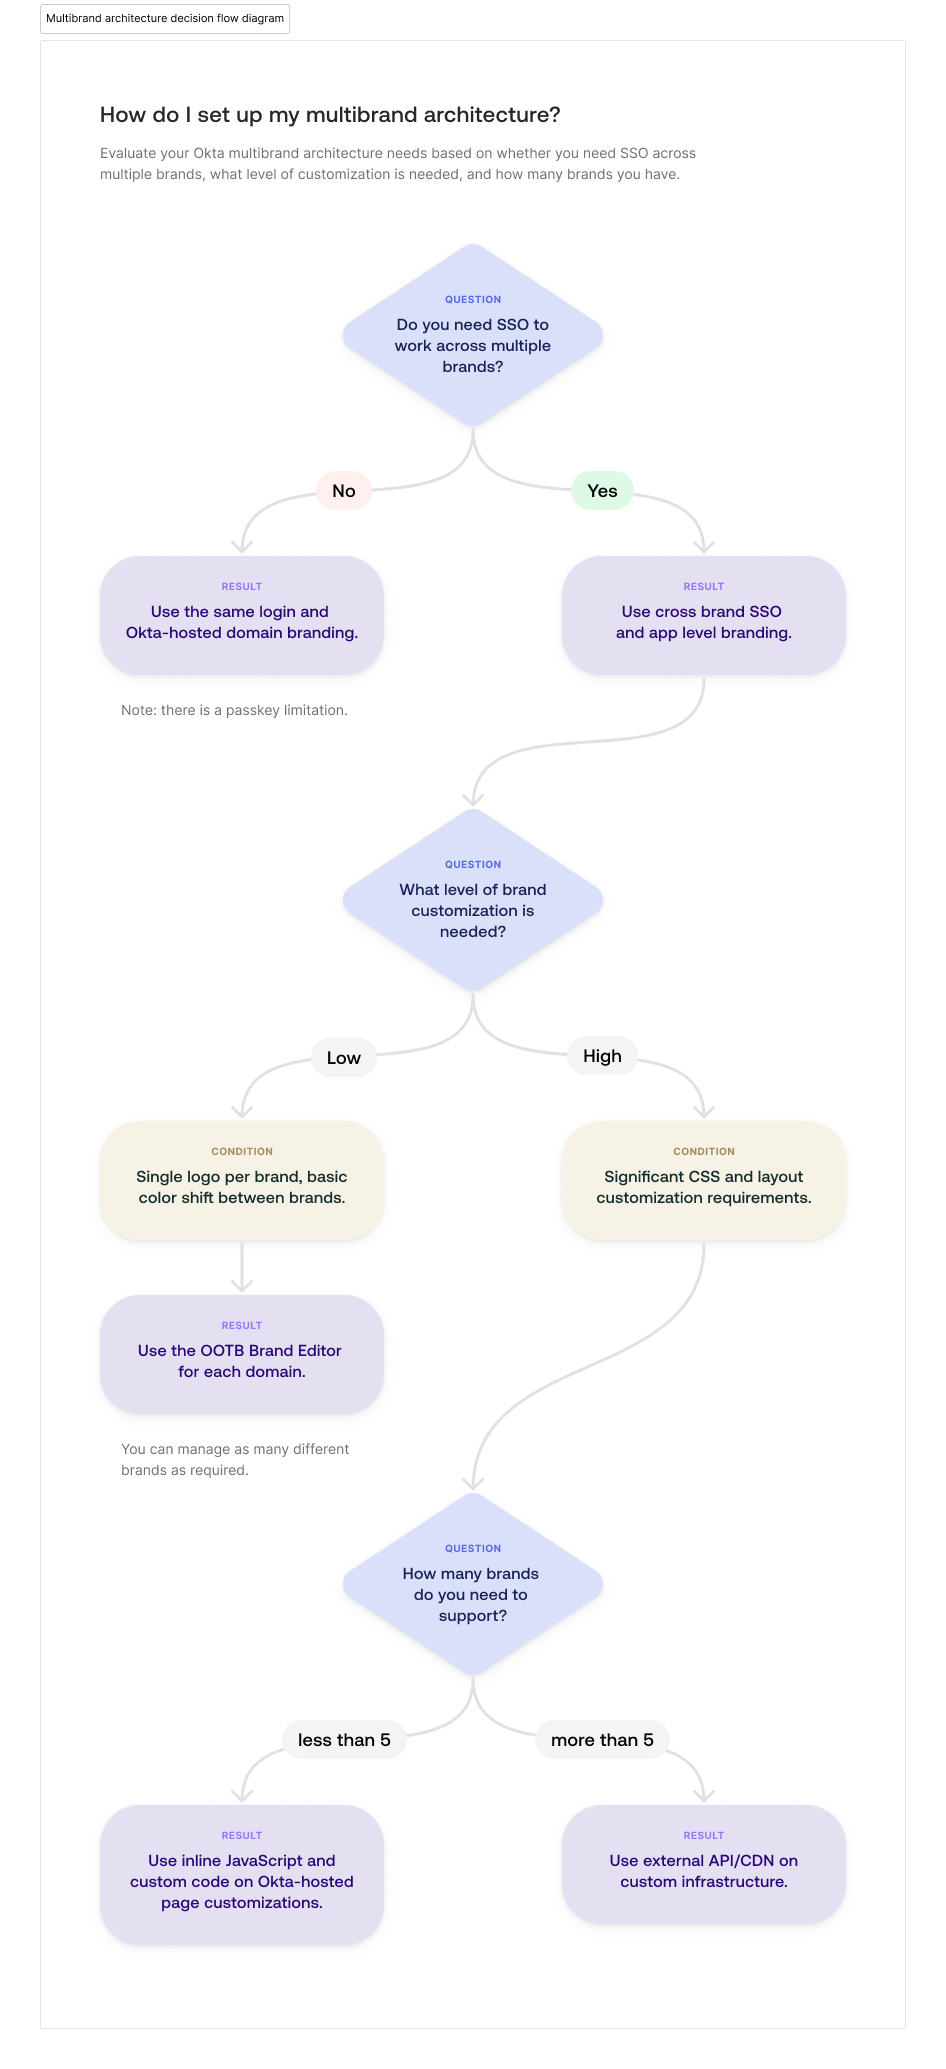
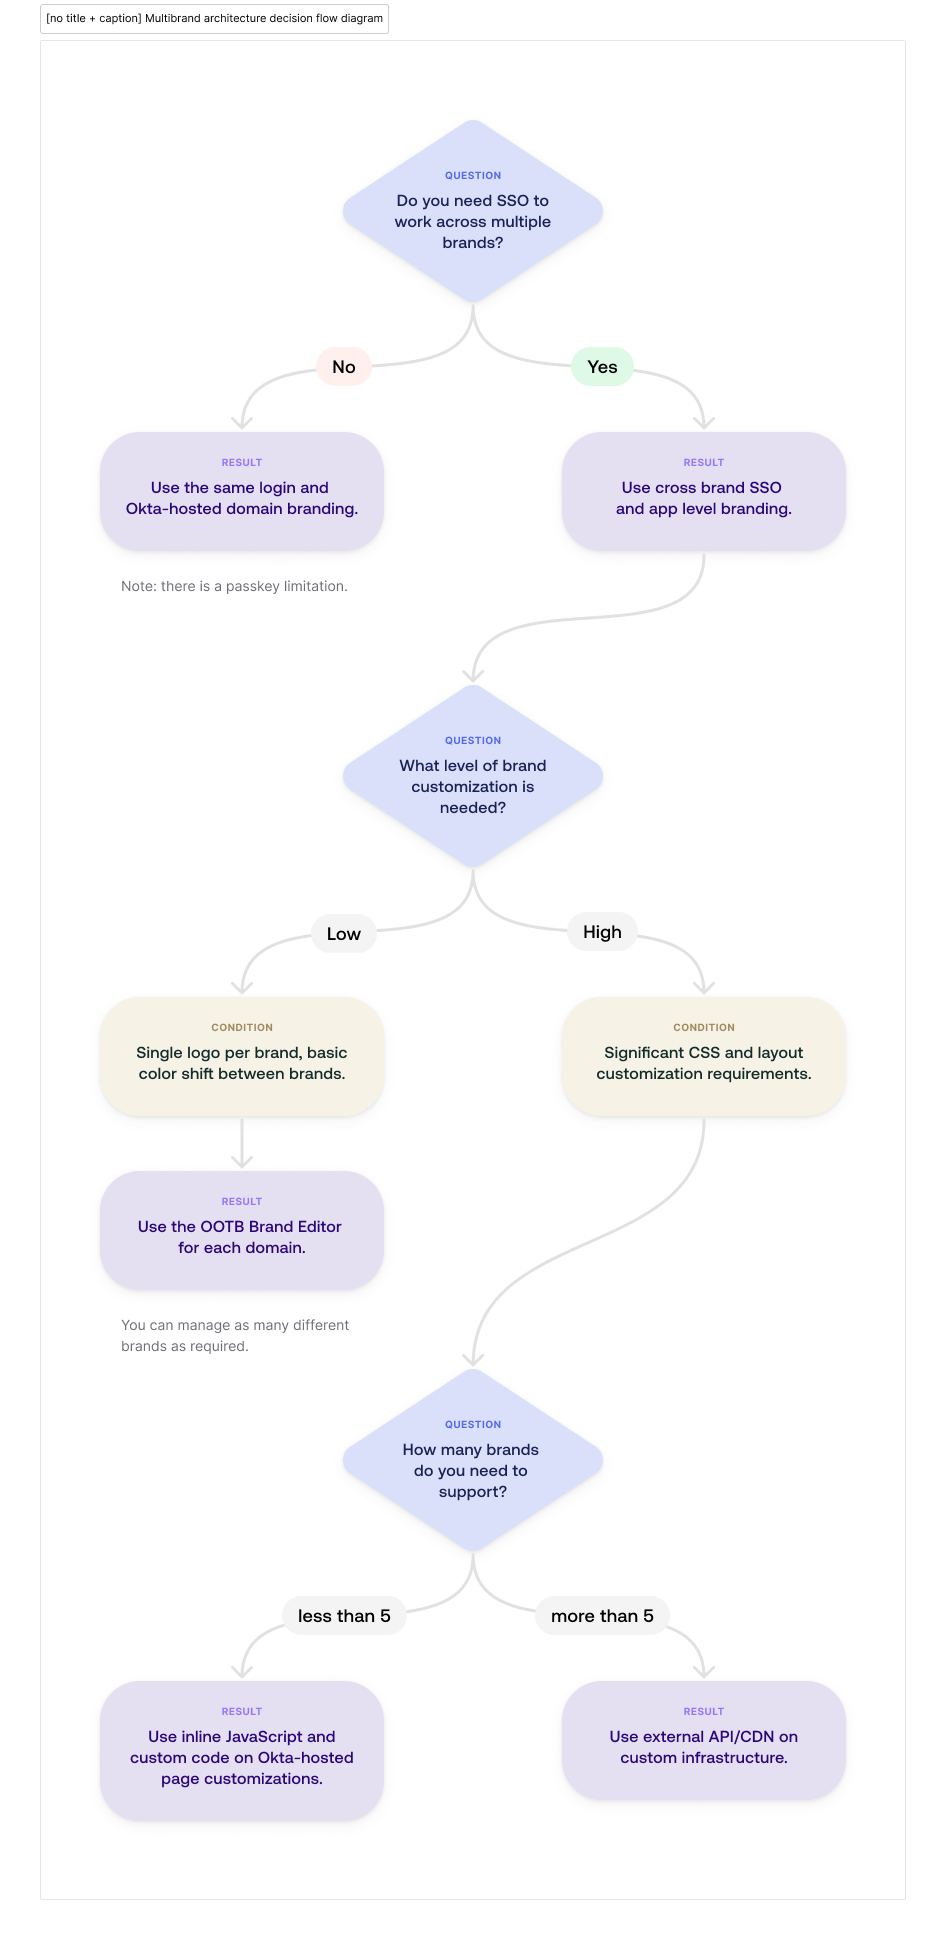
updates

diff --git a/packages/@okta/vuepress-site/docs/concepts/multibrand-architecture/index.md b/packages/@okta/vuepress-site/docs/concepts/multibrand-architecture/index.md
@@ -20,7 +20,7 @@ The right multibrand architecture requires that you answer the following questio
 
 The following diagram shows the decision flow that you should follow when setting up your architectural approach:
 
-<div class="three-quarter">
+<div class="half">
 
 ![A decision flow diagram to help you set up your multibrand architecture](/img/concepts/multibrand-architecture.png)
 
@@ -28,14 +28,6 @@ The following diagram shows the decision flow that you should follow when settin
     Source image: https://www.figma.com/design/z1MlMg2HBdJtgtvW9cxjZf/Dev-Docs-Diagrams?node-id=6-8&t=ViaDcJGs6y3TaPuE-0
   -->
 </div>
-
-## Context controls
-
-Okta provides many controls that you can use to customize the branding of the Sign-In Widget.
-
-
-
-
 
 ## SSO requirements across brands
 
@@ -51,8 +43,9 @@ This approach simplifies management by centralizing user identity and policy enf
 
 End-users have a “same login experience", and can have the same username, password, email, phone, and even one-time passwords (OTPs).
 
-**Note:** If you plan to use passkeys, this approach limits you to five associated domains.
+See [About Okta domain customization](/docs/guides/custom-url-domain/main/#about-okta-domain-customization).
 
+**Note:** If you plan to use passkeys, this approach limits you to five associated domains. See [Passkeys and custom domains](/docs/guides/custom-passkeys/main/).
 
 ### SSO required
 
@@ -83,13 +76,48 @@ app:{
     name: "oidc_client"
 ```
 
-
-
-
+Use the pipe character (`|`) as a delimiter to parse the `label` string. This retrieves the second value, such as "brand_xyz", which you can use to select the appropriate look and feel.
 
 ### High complexity
 
+High complexity applies when your brands are visually diverse and need extensive code customization. The following are examples of complex branding:
 
+* Significant custom CSS
+* Unique layout requirements
+* Complex responsive design rules
+* Highly customized user flows that go beyond basic widget configuration
+
+## Fewer than five brands
+
+
+
+
+
+## Common multibrand use cases
+
+This section details common branding requirements and the recommended controls for implementing them within a multi-brand architecture. These patterns leverage the controls discussed in [Context controls](#context-controls).
+
+### Brand families (product lines)
+
+For enterprise-scale deployments, you may group multiple apps (for example, a product line or SKU) into a distinct brand family. This grouping often requires a consistent look and feel for all apps within that family.
+
+Since consuming users or customers could have access across different product lines, a domain-centric approach is often not sufficient. It could break single sign-on (SSO).
+
+Consider the following controls:
+
+* **App label:** Parsing a custom string within the label. Optimal for dynamic and managed branding. You can easily manage the label within Okta. You can also carry branding metadata parsed by the client app.
+
+* **App ID:** Used with an external lookup service. Supports the greatest variation. Useful when a brand requires significant customization or when a single application is used by multiple brands. The ID serves as a key for a service that retrieves the specific brand assets.
+
+See [Okta context (responsible party)](#okta-context-responsible-party).
+
+### Market-aware branding (regional or regulatory requirements)
+
+Some brand requirements extend beyond standard application and domain boundaries, often intersecting with localization, data residency, or regional regulatory frameworks.
+
+In these scenarios, you cannot solely rely on the user's browser language or basic geolocation. For example, a specific regulatory framework might mandate the use of unique Regional Authenticators/Identity Providers (IdPs) that are applicable only to a specific market, such as APAC, but not to the global audience.
+
+Consider the following controls:
 
 
 
@@ -108,7 +136,7 @@ The following table lists the controls that Okta is responsible for:
 | App ID     | Code-based + context        | Okta provides the unique app ID (`app.value.id`). Use client-side code (JS/HTML) at page load to switch branding. Function: `OktaUtil.getRequestContext()`. |
 | App label  | Code-based + context        | Okta provides the unique app label (`app.value.label`). Use client-side code (JS/HTML) on the page load to parse the label and switch branding. Function: `OktaUtil`.getRequestContext(). |
 | Browser telemetry  | Code-based + browser agent  | The browser provides language settings (`navigator.language` or `navigator.languages`). Use client-side code (JS/HTML) at page load to switch branding. |
-| Self-declaration   | Code-based + end-user/local | Prompt the end user to select preferences and store the selection in a cookie or local storage. Warning: Doesn't persist across different browser sessions. |
+| Self-declaration   | Code-based + end-user/local | Prompt the end user to select preferences and store the selection in a cookie or local storage. <br> **Warning:** Doesn't persist across different browser sessions. |
 
 #### External context (responsible party)
 
@@ -116,5 +144,8 @@ The following table lists controls that you control externally:
 
 | Control | Type | Description |
 |--------|-------|-------------|
-| Cookie or local storage | Origin app + code-based | Store the branding selection in a cookie or local storage before going to the Okta Identity Provider. Warning: Doesn't persist across sessions and has domain/HTTP restrictions. |
-| QueryString | Origin app + code-based | A custom implementation can append parameters to the URL to invoke the branding logic. Warning: Parameters could conflict or be dropped as they’re outside federation specifications. Some use state or nonce to transfer context. |
+| Cookie or local storage | Origin app + code-based | Store the branding selection in a cookie or local storage before going to the Okta Identity Provider. <br> **Warning:** Doesn't persist across sessions and has domain/HTTP restrictions. |
+| QueryString | Origin app + code-based | A custom implementation can append parameters to the URL to invoke the branding logic. <br> **Warning:** Parameters could conflict or be dropped as they’re outside federation specifications. Some use state or nonce to transfer context. |
+
+## See also
+
